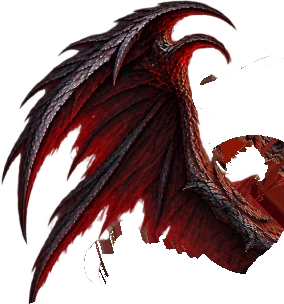
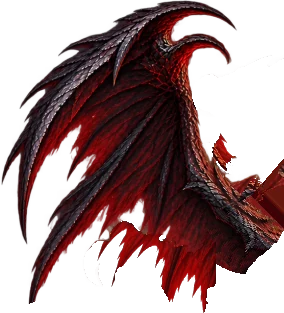
feat(v2cap): 黒龍ヴァルゼノクの技4つを作り直し、頭や前脚の後ろをユーザーが描いた後ろの絵で埋めた（ユーザー「攻撃するときちゃんとその部位が攻撃するように見えるようにして、グラブルみたいにしっかりとした動きを付けたい」・選んだ「後ろの絵を1枚描く」）。
どの技も、ため（攻める所を大きく引く）→一気に振り抜く（70〜120ms・区間の速さ out＝出だしがいちばん速い）→当たった形で止める→ゆっくり戻る、のめりはりにした。当たった瞬間は全体が小さく揺れる（jolt・溜めのあいだは揺れない）。キーの3つめに区間の速さ（EASES：out・in・back・無ければ smooth）を書けるようにした。
黒爪＝前脚を顔の左横まで振りかぶり（顔に重ねると頭が隠れた）、体ごと踏み込んで70msで振り下ろす・爪3本の残像は新しい絵の爪の先から／焦熱の吐息＝首を引いて胸をそらし口の奥を光らせ、80msで首を突き出して吐く／黒翼烈風＝伸び上がって両方の翼を高く広げ、100msで打ち下ろす・奥の翼の風の筋は新しい絵の翼のふちに合わせた／終焉の黒焔＝首を真上へ上げてため（震えない）、120msで首を相手へ振り下ろして吐きつける・いちばん大きく揺れる。
描き直した絵は口が初めから開いている＝下あごは −12° まで（開きすぎるとあごの下に口の中がはみ出した）。口の中を描く線を下あごを切り分けた線にそろえた（2〜3px 下にずれていて、口を開けると上あごとのあいだに背景のすき間が見えた）。

後ろの絵（後ろ.png・立ち絵から頭・首・左の前脚を消して後ろの翼と胸を描き足した絵）：道具が立ち絵に重ね（0.975倍）、頭・首・前脚が止まっているとき覆っている所だけを埋める（止まっているときの見た目は変わらない）。奥の翼の所（多角形 back）は翼へ入れて翼といっしょに動き、胸と肩は体へ。前は模様を折り返して埋めていたので、頭を上げると首の後ろに四角いかたまり、前脚を振ると爪のまわりに切れ端や縦の筋が見えた（前脚の後ろに描いてある所 36%→67%）。
あわせて、翼から浮く埋めた画素の離れ小島（island）を消し、頭や前脚の所のごく小さいかけら（頭の左上のとげの先など・tiny）は体へ戻して頭といっしょに動くようにした。立ち絵から取った小さい画素は翼のまま（体へ戻すと翼が動いても止まって見えた）。後ろの絵が無いときは前と同じ作り。

テスト：めりはり（振り抜きは out で120msまで・当たった形で止める・当たった瞬間だけ揺れる・攻める所がいちばん大きく動く）と、頭・首・前脚の後ろに絵があること（前の作りなら落ちる）を足した。設計書 §6-14 に描き直し・後ろの絵・技の作り直しを書いた。SQL不要

diff --git a/src/v2cap/lib/bossIllust.js b/src/v2cap/lib/bossIllust.js
@@ -71,7 +71,7 @@ const srcOf = (key, kind) => {
 //     orb・orbOp・orbT＝口の火の玉の大きさ（0〜1）・濃さ・出てからのミリ秒
 const ZERO = { x: 0, y: 0, r: 0, neck: 0, head: 0, wingN: 0, wingF: 0, wingNSq: 0, wingFSq: 0, arm: 0, jaw: 0, glow: 0, armN: 0, armF: 0, water: 0,
   armD: 0, armC: 0, armU: 0, armCOn: 0, armUOn: 0, tail: 0, tailT: 0, dust: 0, orb: 0, orbOp: 0, orbT: 0 }
-// 技ごとの動き：keys＝[時刻ミリ秒, 姿勢（待機に足す）]・hitMs＝当たる（撃ち出す）時刻
+// 技ごとの動き：keys＝[時刻ミリ秒, 姿勢（待機に足す）, 区間の速さ（EASES・無ければ smooth）]・hitMs＝当たる（撃ち出す）時刻・jolt＝当たった瞬間の揺れ（joltAt）
 //   trails＝残像の筋（part のパーツの点 pts を、lagMs 前からいまの時刻までたどる。fromMs〜toMs のあいだだけ・kind＝claw 爪／wind 風）
 //   shots＝飛ぶ絵の出どころ（無ければ口から1つ）。{ part, pt（パーツの点）, delayMs（hitMs からの遅れ・−で先に出る）, size（飛ぶ絵の大きさの倍率） }
 //     1つめ（delayMs 0）が届いた時刻がダメージ（impactMs）
@@ -95,11 +95,17 @@ export const BOSS_ILLUST_DEFS = {
     //   体の形から少しはみ出した小さいまとまり（minPx まで）は体に残す。手前の翼は頭の後ろの角の先より右だけ（角の先が翼といっしょに動いた）
     //   持ち上げるしっぽは左の足より左（巻いた先のほう）だけ。足の下まで持ち上げると、足に隠れていた所が足の横にはみ出して見えた
     //   take を付け根の側（右）へ広く取る＝付け根の 200〜228px は体にも残り、持ち上げてもすき間が見えない
-    split: { by: '体', grow: 1, minPx: 300, parts: {
-      wingF: { hide: 40, root: 70, sweep: 5, take: [[0, 0], [330, 0], [330, 300], [300, 345], [230, 345], [160, 342], [130, 346], [100, 352], [60, 366], [0, 372]] },
-      wingN: { hide: 40, root: 70, sweep: 12, take: [[395, 0], [640, 0], [640, 640], [585, 640], [578, 500], [574, 470], [548, 432], [510, 400],
+    //   【確定】2026-10-29 back＝後ろの絵（ユーザー選択「後ろの絵を1枚描く」・立ち絵から頭・首・前脚を消して後ろの翼と胸を描き足した絵）：
+    //   zones（首・前脚の drop）の中で頭・首・前脚が覆っている所を埋める。翼の back の多角形の中は翼へ（翼といっしょに動く）・ほかは体へ
+    //   island＝埋めた画素の離れ小島（この px まで）は消す（翼を大きく上げると前脚の爪のまわりに筋が浮いた）／
+    //   tiny＝頭・前脚の所のごく小さいかけら（この px まで）は体へ戻す（頭の左上のとげの先が翼に入り、頭を動かしても宙に残った）
+    split: { by: '体', grow: 1, minPx: 300, back: { file: '後ろ', zones: ['neck', 'arm'] }, parts: {
+      wingF: { hide: 40, root: 70, sweep: 5, island: 400, tiny: 80,
+        back: [[100, 40], [372, 40], [372, 215], [330, 215], [312, 236], [300, 250], [288, 258], [276, 262], [266, 268], [266, 380], [100, 380]],
+        take: [[0, 0], [330, 0], [330, 300], [300, 345], [230, 345], [160, 342], [130, 346], [100, 352], [60, 366], [0, 372]] },
+      wingN: { hide: 40, root: 70, sweep: 12, island: 400, tiny: 80, back: [[372, 40], [460, 40], [460, 215], [372, 215]], take: [[395, 0], [640, 0], [640, 640], [585, 640], [578, 500], [574, 470], [548, 432], [510, 400],
         [440, 395], [400, 330], [380, 300], [428, 255], [430, 140], [425, 100], [412, 89], [400, 84], [395, 60]] },
-      tail: { hide: 16, root: 34,
+      tail: { hide: 16, root: 34, island: 400,
         take: [[0, 372], [60, 366], [100, 352], [130, 346], [160, 342], [240, 345], [250, 470], [228, 520], [228, 640], [0, 640]],
         drop: [[0, 372], [60, 366], [100, 352], [130, 346], [160, 342], [240, 345], [245, 470], [200, 520], [200, 640], [0, 640]] },
     } },
@@ -123,7 +129,7 @@ export const BOSS_ILLUST_DEFS = {
     pivots: { wingF: [300, 262], wingN: [418, 280], tail: [214, 568] },
     // 切り分け（立ち絵 640px の上の点）：take＝切り出す所・drop＝親から消す所（無ければ take と同じ）・pivot＝回す中心（付け根）
     //   take を drop より付け根の側へ広く取る＝付け根は親にも残り、回してもすき間が見えない
-    //   下あご：line＝口の線（下の歯の並び・先から付け根へ）。開くと line と回した line のあいだに口の中を描く・mouth＝火が出る所（開いた口の前）
+    //   下あご：line＝口の線（下あごの take の上のふちと同じ・先から付け根へ＝ずらすと口を開けたとき上あごとのあいだに背景のすき間が見えた）。開くと line と回した line のあいだに口の中を描く・mouth＝火が出る所（開いた口の前）
     //   首＝頭と胸の上（肩の付け根で回す）・頭＝首の上（あごの後ろで回す）・前脚＝左の前脚（ひじで回す）・しっぽの先＝左で巻き上がった所
     cuts: {
       neck: { from: 'body', pivot: [350, 300],
@@ -133,7 +139,7 @@ export const BOSS_ILLUST_DEFS = {
         take: [[232, 70], [440, 70], [440, 175], [400, 195], [355, 215], [318, 232], [290, 232], [262, 226], [240, 210], [232, 185]],
         drop: [[232, 70], [440, 70], [440, 160], [400, 180], [352, 200], [318, 214], [292, 214], [262, 216], [240, 205], [232, 185]] },
       jaw: { from: 'head', pivot: [292, 172],
-        line: [[258, 205], [265, 197], [272, 189], [279, 181], [286, 173]],
+        line: [[250, 208], [255, 202], [262, 194], [270, 186], [278, 179], [286, 171]],
         take: [[255, 202], [262, 194], [270, 186], [278, 179], [286, 171], [295, 172], [302, 182], [300, 194], [290, 204], [272, 214], [256, 215], [250, 208]],
         mouth: [256, 180] },
       arm: { from: 'body', pivot: [268, 318],
@@ -143,60 +149,64 @@ export const BOSS_ILLUST_DEFS = {
         take: [[0, 330], [262, 330], [262, 482], [120, 488], [60, 502], [0, 502]],
         drop: [[0, 330], [262, 330], [262, 470], [120, 474], [60, 488], [0, 488]] },
     },
-    // 2026-10-29 描き直した絵は首が短く頭が首の真上にあり、口も初めから開いている＝前の絵の角度のままだと頭が後ろへ倒れ、口の中が大きく出た。
-    //   首・頭の角度は前の 0.45 倍、下あごは 0.5 倍にした（仮・技の動きとエフェクトはこのあと見直す＝ユーザー「待機時のイラストを完璧にしてから技のエフェクト再確認する」）
+    // 【確定】2026-10-29 技の作り直し（ユーザー「攻撃するときちゃんとその部位が攻撃するように見えるようにして、グラブルみたいにしっかりとした動きを付けたい」）：
+    //   どの技も、ため（攻める所を大きく引く）→一気に振り抜く（70〜120ms・out）→当たった形で止める→ゆっくり戻る、のめりはり。当たった瞬間は全体が小さく揺れる（jolt）。
+    //   爪＝前脚・吐息と黒焔＝首と頭・烈風＝両方の翼が、いちばん大きく動く。頭や前脚の後ろは後ろの絵（後ろ.png）で埋めたので、大きく動かしても切れ端が出ない。
+    //   描き直した絵は口が初めから開いている＝下あごは開きすぎない（−12° まで・開きすぎるとあごの下に口の中がはみ出した）
     motions: {
-      // 【確定】2026-10-28 ユーザー「ひっかきモーションもうちょっと激しく」：大きくのけぞって振りかぶり、60ms で振り下ろして深く踏み込む
-      claw: { totalMs: 950, hitMs: 370, keys: [
+      // 黒爪：体を後ろへ引いて伸び上がり、前脚を顔の左横まで振りかぶる（顔に重ねると頭が隠れた）→体ごと相手へ踏み込み、70ms で前脚を振り下ろす。爪3本の残像
+      claw: { totalMs: 1150, hitMs: 420, keys: [
         [0, {}],
-        [230, { x: 0.05, y: -0.02, r: 9, neck: 2.7, head: 4.5, arm: 62, wingN: -16, wingF: 12, jaw: -5 }],
-        [310, { x: 0.055, y: -0.02, r: 10, neck: 3.1, head: 5, arm: 68, wingN: -18, wingF: 13, jaw: -6 }],
-        [370, { x: -0.17, y: 0.035, r: -13, neck: -3.6, head: -4.5, arm: -52, wingN: 16, wingF: -10, jaw: -12 }],
-        [430, { x: -0.155, y: 0.03, r: -11, neck: -3.1, head: -3.6, arm: -46, wingN: 12, wingF: -8, jaw: -10 }],
-        [560, { x: -0.15, y: 0.03, r: -10, neck: -2.7, head: -3.1, arm: -44, wingN: 10, wingF: -6, jaw: -7 }],
-        [950, {}],
-      ], trails: [
-        { kind: 'claw', part: 'arm', pts: [[147, 346], [180, 334], [160, 288]], fromMs: 310, toMs: 370, lagMs: 60, fadeMs: 150 },
+        [260, { x: 0.045, y: -0.025, r: 7, neck: 2, head: -2, arm: 40, wingN: -12, wingNSq: -0.1, wingF: 8, jaw: -2 }, 'out'],
+        [350, { x: 0.055, y: -0.03, r: 8.5, neck: 2.5, head: -2.5, arm: 47, wingN: -14, wingNSq: -0.12, wingF: 10, jaw: -3 }],
+        [420, { x: -0.16, y: 0.035, r: -12, neck: -4, head: -3, arm: -48, wingN: 12, wingNSq: 0.1, wingF: -10, jaw: -6 }, 'out'],
+        [520, { x: -0.17, y: 0.04, r: -13, neck: -4.5, head: -3.5, arm: -54, wingN: 13, wingNSq: 0.12, wingF: -11, jaw: -7 }, 'out'],
+        [660, { x: -0.155, y: 0.035, r: -11.5, neck: -4, head: -3, arm: -50, wingN: 11, wingNSq: 0.08, wingF: -9, jaw: -6 }],
+        [1150, {}],
+      ], jolt: { atMs: 420, ms: 220, x: 0.006, y: 0.004 }, trails: [
+        { kind: 'claw', part: 'arm', pts: [[138, 339], [168, 351], [196, 324]], fromMs: 350, toMs: 420, lagMs: 70, fadeMs: 160 },
       ] },
-      breath: { totalMs: 1250, hitMs: 620, keys: [
+      // 焦熱の吐息：首を後ろへ引いて胸をそらし、口の奥を光らせる→80ms で首を相手へ突き出して口を開け、吐き続ける（反動で少し押し戻される）
+      breath: { totalMs: 1450, hitMs: 640, keys: [
         [0, {}],
-        [450, { x: 0.03, r: 4, neck: 3.6, head: 6.3, glow: 0.8, jaw: -6, arm: -8 }],
-        [540, { x: 0.03, r: 4, neck: 4, head: 6.8, glow: 0.9, jaw: -7, arm: -10 }],
-        [620, { x: -0.05, r: -3, neck: -3.6, head: -3.6, glow: 1, jaw: -18, arm: -26 }],
-        [920, { x: -0.045, r: -2, neck: -2.7, head: -3.1, glow: 0.5, jaw: -16, arm: -22 }],
-        [1250, {}],
-      ] },
+        [380, { x: 0.035, y: -0.02, r: 5, neck: 6, head: 5, wingN: -8, wingF: 5, arm: 8, glow: 0.6 }],
+        [560, { x: 0.045, y: -0.025, r: 6, neck: 7.5, head: 6.5, wingN: -10, wingF: 6, arm: 10, glow: 0.95 }],
+        [640, { x: -0.07, y: 0.015, r: -5, neck: -7, head: -5, jaw: -10, wingN: 8, wingF: -6, arm: -20, glow: 1 }, 'out'],
+        [760, { x: -0.06, y: 0.012, r: -4, neck: -6, head: -4.5, jaw: -11, wingN: 6, wingF: -5, arm: -18, glow: 1 }],
+        [1000, { x: -0.05, y: 0.01, r: -3, neck: -5, head: -4, jaw: -9, arm: -15, glow: 0.6 }],
+        [1450, {}],
+      ], jolt: { atMs: 640, ms: 180, x: 0.004, y: 0.003 } },
       // 【確定】2026-10-29 ユーザー「羽根の攻撃がおかしい、もっと羽を大きく広げて敵に向かってバフってやってもらいたい」
       //   （10-28 の「後ろへ引いて前へ2回あおぐ」は翼がワイパーのように倒れて見えた）：
-      //   大きくのけぞって両方の翼を高く広げ（長さの向きに伸ばす＝Sq を−）、一瞬ためて、体ごと相手の方へ踏み込みながら一気に打ち下ろす（縮める＝手前へ来る）。
+      //   伸び上がって両方の翼を高く広げ（長さの向きに伸ばす＝Sq を−）、一瞬ためて、体ごと相手の方へ踏み込みながら 100ms で打ち下ろす（縮める＝手前へ来る）。
       //   打ち下ろした時刻に、翼の先と胸の前から風が相手へ飛ぶ（胸の前のがいちばん大きい＝1つめ・ダメージ）
-      gale: { totalMs: 1350, hitMs: 640, keys: [
+      gale: { totalMs: 1500, hitMs: 700, keys: [
         [0, {}],
-        [380, { x: 0.04, y: -0.05, r: 9, neck: 4.5, head: 3.6, wingN: -20, wingNSq: -0.28, wingF: 30, wingFSq: -0.22, arm: 12, jaw: -5 }],
-        [520, { x: 0.045, y: -0.055, r: 10, neck: 5, head: 4, wingN: -22, wingNSq: -0.3, wingF: 32, wingFSq: -0.24, arm: 13, jaw: -6 }],
-        [640, { x: -0.09, y: 0.035, r: -10, neck: -3.6, head: -4.5, wingN: 38, wingNSq: 0.32, wingF: -26, wingFSq: 0.26, arm: -14, jaw: -10 }],
-        [780, { x: -0.085, y: 0.03, r: -9, neck: -3.1, head: -4, wingN: 34, wingNSq: 0.28, wingF: -24, wingFSq: 0.22, arm: -12, jaw: -8 }],
-        [1020, { x: -0.04, y: 0.01, r: -4, wingN: 10, wingNSq: 0.08, wingF: -8, wingFSq: 0.05 }],
-        [1350, {}],
-      ], trails: [
-        { kind: 'wind', part: 'wingN', pts: [[440, 72], [560, 148], [600, 280], [600, 420]], fromMs: 520, toMs: 640, lagMs: 100, fadeMs: 220 },
-        { kind: 'wind', part: 'wingF', pts: [[60, 300], [55, 200], [130, 85], [270, 80]], fromMs: 520, toMs: 640, lagMs: 100, fadeMs: 220 },
+        [420, { x: 0.04, y: -0.055, r: 8, neck: 4, head: 2, wingN: -22, wingNSq: -0.28, wingF: 12, wingFSq: -0.18, arm: 14, jaw: -3 }, 'out'],
+        [600, { x: 0.05, y: -0.065, r: 9.5, neck: 4.5, head: 2.5, wingN: -25, wingNSq: -0.32, wingF: 14, wingFSq: -0.2, arm: 16, jaw: -3 }],
+        [700, { x: -0.1, y: 0.035, r: -10, neck: -3.5, head: -3, wingN: 34, wingNSq: 0.3, wingF: -24, wingFSq: 0.24, arm: -12, jaw: -7 }, 'out'],
+        [820, { x: -0.105, y: 0.04, r: -10.5, neck: -3.5, head: -3, wingN: 36, wingNSq: 0.32, wingF: -26, wingFSq: 0.26, arm: -13, jaw: -7 }],
+        [1080, { x: -0.05, y: 0.015, r: -5, wingN: 12, wingNSq: 0.1, wingF: -9, wingFSq: 0.08, arm: -5, jaw: -3 }],
+        [1500, {}],
+      ], jolt: { atMs: 700, ms: 260, x: 0.007, y: 0.005 }, trails: [
+        { kind: 'wind', part: 'wingN', pts: [[440, 72], [560, 148], [600, 280], [600, 420]], fromMs: 600, toMs: 700, lagMs: 100, fadeMs: 220 },
+        { kind: 'wind', part: 'wingF', pts: [[262, 84], [200, 66], [120, 120], [70, 200], [60, 260]], fromMs: 600, toMs: 700, lagMs: 100, fadeMs: 220 },
       ], shots: [
         { part: 'body', pt: [285, 260], delayMs: 0, size: 1.45 },
         { part: 'wingF', pt: [55, 200], delayMs: -30, size: 0.9 },
         { part: 'wingN', pt: [560, 148], delayMs: 30, size: 0.9 },
       ] },
-      // 首を真上に上げ、口に黒い火の玉をためて（震える）、突き出して撃つ
-      doom: { totalMs: 1800, hitMs: 1080, keys: [
+      // 終焉の黒焔：首を真上へ上げて伸び上がり、翼を広げて口に黒い炎をためる（震えない・ゆっくりさらに伸び上がる）
+      //   →120ms で首を相手へ振り下ろし、体ごと前へ出て翼も打ち下ろし、黒炎を吐きつける。いちばん大きく揺れる
+      doom: { totalMs: 2200, hitMs: 1300, keys: [
         [0, {}],
-        [480, { x: 0.03, y: -0.05, r: 10, neck: 12.6, head: 18, wingN: 12, wingF: -14, jaw: -11, glow: 0.8, arm: 10 }],
-        [640, { x: 0.035, y: -0.055, r: 11, neck: 13.5, head: 19.8, wingN: 15, wingF: -16, jaw: -13, glow: 1, arm: 12 }],
-        [800, { x: 0.03, y: -0.05, r: 10.5, neck: 13.1, head: 18.9, wingN: 13, wingF: -15, jaw: -12, glow: 1, arm: 11 }],
-        [960, { x: 0.035, y: -0.056, r: 11.5, neck: 14, head: 20.7, wingN: 16, wingF: -17, jaw: -14, glow: 1, arm: 12 }],
-        [1080, { x: -0.08, y: 0.02, r: -8, neck: -6.3, head: -7.2, wingN: -12, wingF: 10, jaw: -20, glow: 1, arm: -26 }],
-        [1400, { x: -0.07, y: 0.02, r: -6, neck: -4.5, head: -5.4, jaw: -17, glow: 0.4, arm: -22 }],
-        [1800, {}],
-      ], charge: { kind: 'hit', fromMs: 380, toMs: 1080, size: 0.3 } },
+        [520, { x: 0.03, y: -0.06, r: 9, neck: 15, head: 9, wingN: -16, wingNSq: -0.2, wingF: 10, wingFSq: -0.12, arm: 14, jaw: -6, glow: 0.7 }, 'out'],
+        [1180, { x: 0.04, y: -0.075, r: 11, neck: 17, head: 10.5, wingN: -19, wingNSq: -0.24, wingF: 12, wingFSq: -0.14, arm: 16, jaw: -8, glow: 1 }],
+        [1300, { x: -0.1, y: 0.03, r: -9, neck: -9, head: -6, wingN: 24, wingNSq: 0.24, wingF: -18, wingFSq: 0.18, arm: -28, jaw: -12, glow: 1 }, 'out'],
+        [1460, { x: -0.11, y: 0.035, r: -10, neck: -10, head: -6.5, wingN: 26, wingNSq: 0.26, wingF: -19, wingFSq: 0.2, arm: -30, jaw: -12, glow: 1 }],
+        [1700, { x: -0.08, y: 0.025, r: -7, neck: -7, head: -5, wingN: 14, wingNSq: 0.12, wingF: -10, wingFSq: 0.1, arm: -22, jaw: -10, glow: 0.4 }],
+        [2200, {}],
+      ], jolt: { atMs: 1300, ms: 320, x: 0.01, y: 0.008 }, charge: { kind: 'hit', fromMs: 300, toMs: 1300, size: 0.3 } },
     },
     // 塗りのエフェクト（元の絵の名前はドット絵版と同じ・フォルダが違う）。size＝枠の幅に対する横幅
     //   飛ぶ＝flyMs で口（か shots）から自分の体の真ん中へ／当たる＝durMs のあいだ大きくなりながら消える（spin＝回る角度°）
@@ -334,13 +344,31 @@ export const BOSS_ILLUST_DEFS = {
 
 const smooth = (k) => k * k * (3 - 2 * k)
 const lerpPose = (a, b, k) => Object.fromEntries(Object.keys(ZERO).map(f => [f, (a[f] ?? 0) + ((b[f] ?? 0) - (a[f] ?? 0)) * k]))
+// 区間の速さの付け方（キーの3つめ・その区間の終わりのキーに書く）。無ければ smooth（ゆっくり出てゆっくり止まる）
+//   out＝出だしがいちばん速く、着く前に止まる（振り抜く・踏み込む）／in＝だんだん速く（引き絞る）／back＝少し行き過ぎて戻る（打ったあとの反動）
+//   【確定】2026-10-29 ユーザー「攻撃するときちゃんとその部位が攻撃するように見えるようにして、グラブルみたいにしっかりとした動きを付けたい」：
+//   ため（in）→一気に振り抜く（out・70〜110ms）→当たった形で止める→ゆっくり戻る、のめりはり
+export const EASES = {
+  smooth,
+  out: (k) => 1 - (1 - k) ** 3,
+  in: (k) => k ** 3,
+  back: (k) => 1 + 2.4 * (k - 1) ** 3 + 1.4 * (k - 1) ** 2,
+}
 // 技の姿勢（待機に足すぶん）。流し終わったら null
 export const motionPoseAt = (keys, ms) => {
   if (ms < 0 || ms >= keys.at(-1)[0]) return null
   let i = 0
   while (i < keys.length - 2 && ms >= keys[i + 1][0]) i++
-  const [t0, p0] = keys[i], [t1, p1] = keys[i + 1]
-  return lerpPose(p0, p1, smooth((ms - t0) / (t1 - t0)))
+  const [t0, p0] = keys[i], [t1, p1, ease] = keys[i + 1]
+  return lerpPose(p0, p1, (EASES[ease] || smooth)((ms - t0) / (t1 - t0)))
+}
+// 当たった瞬間の揺れ（技の jolt＝{ atMs, ms, x, y }：atMs から ms のあいだ全体が小さく揺れて収まる・x・y は枠の割合）
+//   重い一撃の手ごたえ（しっぽの叩きつけの揺れと同じ形）。溜めのあいだは震えない（雨摩座でユーザー「溜めるとき、別に震えなくていい」）
+export const joltAt = (jolt, ms) => {
+  const h = ms - (jolt?.atMs ?? 0)
+  if (!jolt || h < 0 || h >= jolt.ms) return { x: 0, y: 0 }
+  const d = (1 - h / jolt.ms) ** 2
+  return { x: jolt.x * Math.sin(h / 11) * d, y: jolt.y * Math.sin(h / 8 + 1.2) * d }
 }
 // 待機の姿勢（時刻 tMs）。羽ばたき（periodMs）：振り下ろし（はじめの35%）は速く、振り上げはゆっくり
 //   ＋sway＝揺れの足し算（雨摩座は揺れだけ）＋slam・orb＝ときどきの動き（黒龍のしっぽの叩きつけ・口の火の玉）
@@ -398,7 +426,8 @@ export const illustPoseAt = (key, motion, ms, tMs, fromCast = false) => {
   if (!add) return idle
   const keep = def.idleKeep || IDLE_KEEP, cp = fromCast && def.cast ? def.cast.pose : null
   const w = cp ? 1 - smooth(Math.min(1, Math.max(0, ms) / CAST_OUT_MS)) : 0
-  return Object.fromEntries(Object.keys(ZERO).map(f => [f, idle[f] * (keep[f] || 0) + add[f] + (cp?.[f] || 0) * w]))
+  const j = joltAt(motion.jolt, ms)
+  return Object.fromEntries(Object.keys(ZERO).map(f => [f, idle[f] * (keep[f] || 0) + add[f] + (cp?.[f] || 0) * w + (j[f] || 0)]))
 }
 // 体の動きから切り離したパーツ（def.free・雨摩座の水の帯）の姿勢：技・構えのあいだも待機のまま
 export const illustFreePoseAt = (key, tMs) => idlePoseAt(BOSS_ILLUST_DEFS[key].idle, tMs)
@@ -531,7 +560,7 @@ export const bossIllustOf = (key) => {
       return { front: front.map(Math.round), delayMs: sh.delayMs, size: sh.size ?? 1 }
     })
     // 当たる時刻＝撃ち出す時刻＋飛ぶ時間＋当たる絵が降りきるまで（lead・氷雨と水天葬）
-    motions[m.key] = { label: m.file, keys: md.keys, trails: md.trails || [], arcs: md.arcs || [], totalMs: md.totalMs, hitMs: md.hitMs, flyMs, impactMs: md.hitMs + flyMs + (fx.hit?.lead || 0),
+    motions[m.key] = { label: m.file, keys: md.keys, trails: md.trails || [], arcs: md.arcs || [], jolt: md.jolt || null, totalMs: md.totalMs, hitMs: md.hitMs, flyMs, impactMs: md.hitMs + flyMs + (fx.hit?.lead || 0),
       front: shots[0].front, shots, fx: Object.keys(fx).length ? fx : null, charge: md.charge && fx[md.charge.kind] ? md.charge : null }
   }
   const jaw = def.cuts?.jaw && art.parts.jaw ? { line: def.cuts.jaw.line, pivot: def.cuts.jaw.pivot, mouth: def.cuts.jaw.mouth } : null

diff --git a/src/v2cap/lib/bossIllustList.js b/src/v2cap/lib/bossIllustList.js
@@ -6,11 +6,11 @@
 export const BOSS_ILLUST = {
   varuzenoku: {
     parts: {
-      wingF: { x: 46, y: 57, w: 284, h: 304, px: 300, py: 262, ax: -152 },
+      wingF: { x: 46, y: 57, w: 284, h: 313, px: 300, py: 262, ax: -156 },
       wingN: { x: 380, y: 64, w: 227, h: 417, px: 418, py: 280, ax: -13 },
       tail: { x: 58, y: 474, w: 185, h: 111, px: 214, py: 568, ax: -147 },
       tailT: { x: 44, y: 349, w: 181, h: 152, px: 75, py: 478, ax: -53, parent: 'tail' },
-      body: { x: 196, y: 261, w: 379, h: 345, px: 358, py: 392, ax: 70 },
+      body: { x: 196, y: 240, w: 379, h: 366, px: 358, py: 392, ax: 69 },
       neck: { x: 260, y: 181, w: 161, h: 131, px: 350, py: 300, ax: -93, parent: 'body' },
       head: { x: 238, y: 88, w: 172, h: 144, px: 320, py: 196, ax: -80, parent: 'neck' },
       arm: { x: 130, y: 277, w: 162, h: 97, px: 268, py: 318, ax: 177, parent: 'body' },
@@ -26,8 +26,9 @@ export const BOSS_ILLUST = {
     },
     fit: {
       body: { s: 0.765, deg: 0, tx: 160, ty: 154, score: 0.263 },
+      back: { s: 0.975, deg: 0, tx: 14, ty: 22, score: 0.435 },
     },
-    v: { 'il-wingF': '3ecc46db', 'il-wingN': 'c653e832', 'il-tail': 'b394f8e4', 'il-tailT': 'd8b44bdc', 'il-body': '75b64f85', 'il-neck': '853ae806', 'il-head': '7ba27c99', 'il-arm': 'a17fb046', 'il-jaw': 'c05e0043', 'il-fx-claw-hit': '9e27da08', 'il-fx-breath-fly': 'c7e563ee', 'il-fx-breath-hit': '7bcfb438', 'il-fx-gale-fly': '5dc69c3e', 'il-fx-gale-hit': '709c7f83', 'il-fx-doom-fly': '34511ca5', 'il-fx-doom-hit': '4255edc9', 'il-fx-idle-orb': '46a23fc6' },
+    v: { 'il-wingF': '4363765e', 'il-wingN': 'c653e832', 'il-tail': 'b394f8e4', 'il-tailT': 'd8b44bdc', 'il-body': 'ac4bfbc9', 'il-neck': '5964abdc', 'il-head': '55344c91', 'il-arm': '181f74b9', 'il-jaw': 'c05e0043', 'il-fx-claw-hit': '9e27da08', 'il-fx-breath-fly': 'c7e563ee', 'il-fx-breath-hit': '7bcfb438', 'il-fx-gale-fly': '5dc69c3e', 'il-fx-gale-hit': '709c7f83', 'il-fx-doom-fly': '34511ca5', 'il-fx-doom-hit': '4255edc9', 'il-fx-idle-orb': '46a23fc6' },
   },
   amaza: {
     parts: {
